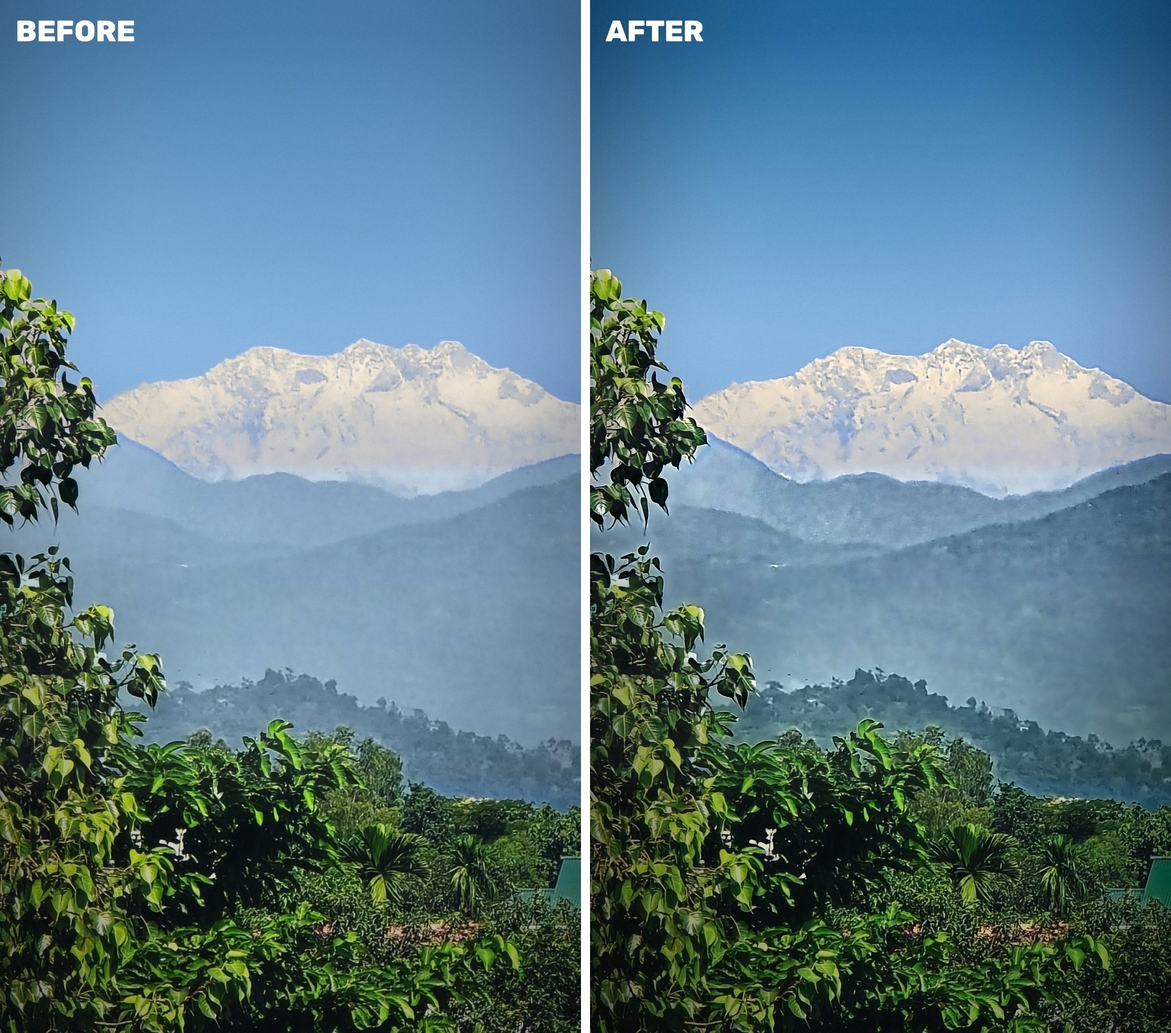
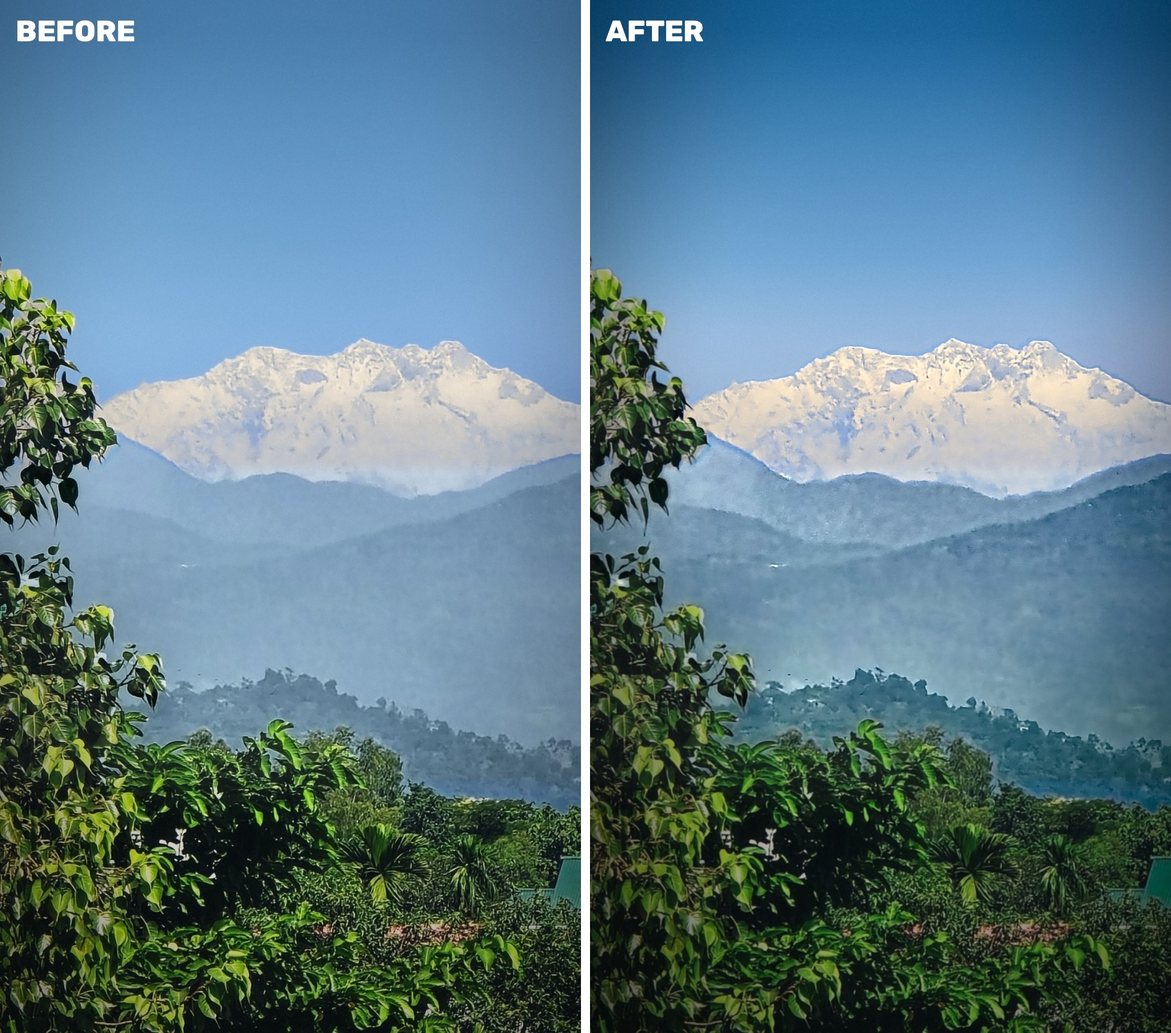
Render the Himalaya view in 4K with a cinematic grade and a widescreen frame
enhance.py now renders any crop at any scale (radii and grain scaled to
match) and writes two 4K frames: the whole photo at 2160x3840, and a
3840x2160 frame of the peak and its ranges, letterboxed to 2.39:1,
rendered from the photo at about 3.6x rather than cut from the portrait.

The grade goes further towards a film still: golden light and halation
on the snow, a warm horizon glow, blue-green shadows in the hills, a
lifted black and a stronger vignette. The foreground leaves are put out
of focus with a lens disc applied to the leaves alone; their mask now
includes the drip tips and the bright sharpening rims, so no outline is
left sharp. himalaya-cinematic.jpg is replaced by himalaya-4k.jpg.

Claude-Session: https://claude.ai/code/session_01L3hZmj9oe8Yfp8ZvHXW3mm

diff --git a/media/himalaya-view/enhance.py b/media/himalaya-view/enhance.py
@@ -1,6 +1,10 @@
 """The Himalaya over the foothills: clear the haze from the middle hills,
-bring out their forests and ridges, and give the whole view a natural,
-cinematic finish, at twice the size (2160 x 3840).
+bring out their forests and ridges, and give the whole view a cinematic
+finish, in 4K:
+
+  himalaya-4k.jpg              2160 x 3840, the whole photo (4K UHD, portrait)
+  himalaya-4k-cinemascope.jpg  3840 x 2160, the peak and its ranges framed
+                               2.39:1 inside a 16:9 4K frame
 
   1. Regions. The sky is the smooth blue connected to the top edge; the
      foreground foliage is the saturated green; the snow is the bright,
@@ -16,11 +20,17 @@ cinematic finish, at twice the size (2160 x 3840).
      blended in, from ../sunset/upscale.py) enlarges 4x in tiles and cleans
      the JPEG noise the dehaze has lifted. It is then brought to 2x, and the
      hills' forest texture and ridgelines are sharpened at two scales.
-  4. Grade. The snow gets local contrast and a touch of warm morning light
-     in its highlights, with cool shadows. The sky deepens towards the top
-     like a polariser. The near ridge turns a little greener than the far
-     hills. The foreground leaves are calmed and slightly darkened to frame
-     the view. Then a gentle filmic curve, a soft vignette and a fine grain.
+  4. Grade, for the look of a film still: golden morning light on the snow
+     with a soft halation round its brightest edges, cool shadows; a sky
+     deepening towards the top like a polariser, with a faint warm glow
+     along the horizon; blue-green shadows in the hills, the near ridge a
+     little greener; the foreground leaves darkened to frame the view; a
+     filmic curve with a slightly lifted black, a vignette and a fine grain.
+     The foreground leaves are softly out of focus, as with a lens focused
+     on the mountain: gently in the portrait, more in the widescreen frame,
+     where they are big and close. The widescreen frame is rendered from
+     the photo itself at its own scale (about 3.6x), not cut from the
+     portrait.
 
     pip install numpy opencv-python-headless onnx onnxruntime
     python3 media/himalaya-view/enhance.py
@@ -38,8 +48,12 @@ sys.path.insert(0, str(HERE.parent / "sunset"))
 import upscale as sr  # noqa: E402
 
 SOURCE = HERE / "himalaya-before.jpg"
-OUTPUT = HERE / "himalaya-cinematic.jpg"
+OUTPUT = HERE / "himalaya-4k.jpg"
+WIDE = HERE / "himalaya-4k-cinemascope.jpg"
 COMPARE = HERE / "himalaya-before-after.jpg"
+WIDE_CROP = (0, 522, 1080, 1130)    # x0, y0, x1, y1 in the photo: 16:9, the peak and its ranges
+SCOPE = 2.39                        # the widescreen frame's picture ratio, inside 16:9
+FOCUS_BLUR = (3.0, 12.0)             # defocus of the foreground leaves: portrait, widescreen
 KEEP_HAZE = 0.5          # haze kept = t ** KEEP_HAZE; 1 keeps all of it, 0 removes it
 NEAR_PEAK = (850, 1010, 1085)   # rows (in the photo) of the two ranges under the snow: full, then fading out
 NEAR_PEAK_KEEP = 0.32    # how much less haze those two ranges keep
@@ -91,6 +105,13 @@ def regions(img):
     sky = cv2.morphologyEx(sky, cv2.MORPH_CLOSE, np.ones((15, 15), np.uint8))
     fol = cv2.morphologyEx((((A < -8) & (B > 4)) | (L < 70)).astype(np.uint8), cv2.MORPH_CLOSE,
                            np.ones((7, 7), np.uint8))
+    # The leaves' thin drip tips and the bright rims the phone's sharpening
+    # drew round them: small, high-contrast details right beside the
+    # foliage, against a background (sky, haze) that is smooth there.
+    near = cv2.dilate(fol, np.ones((25, 25), np.uint8)) > 0
+    detail = np.abs(L - cv2.medianBlur(np.clip(L, 0, 255).astype(np.uint8), 21).astype(np.float32)) > 7
+    fol = (fol | (near & detail)).astype(np.uint8)
+    fol = cv2.morphologyEx(fol, cv2.MORPH_CLOSE, np.ones((3, 3), np.uint8))
     # Snow: bright and near-neutral, in the upper part of the frame, not sky.
     h = img.shape[0]
     rows = np.arange(h, dtype=np.float32)[:, None]
@@ -148,26 +169,26 @@ def dehaze(img, sky, snow, dist, fol, band):
 
 # --------------------------------------------------------------- detail ----
 
-def enlarge(f, weight):
-    """Real-ESRGAN general 4x in tiles, then down to 2x, blended per region
+def enlarge(f, weight, size):
+    """Real-ESRGAN general 4x in tiles, then to `size`, blended per region
     with a plain Lanczos enlargement: full on the hills, which need it,
     little on leaves the phone had already sharpened, none on the sky."""
     sess = ort.InferenceSession(sr.build(sr.weights()).SerializeToString(), providers=["CPUExecutionProvider"])
     img8 = (np.clip(f, 0, 1) * 255 + 0.5).astype(np.uint8)
     big = sr.upscale_tiled(sess, img8).astype(np.float32) / 255
-    h, w = f.shape[:2]
-    gan = cv2.resize(big, (w * 2, h * 2), interpolation=cv2.INTER_AREA)
-    plain = cv2.resize(f.astype(np.float32), (w * 2, h * 2), interpolation=cv2.INTER_LANCZOS4)
-    wt = cv2.resize(weight.astype(np.float32), (w * 2, h * 2), interpolation=cv2.INTER_LINEAR)[..., None]
+    gan = cv2.resize(big, size, interpolation=cv2.INTER_AREA)
+    plain = cv2.resize(f.astype(np.float32), size, interpolation=cv2.INTER_LANCZOS4)
+    wt = cv2.resize(weight.astype(np.float32), size, interpolation=cv2.INTER_LINEAR)[..., None]
     return gan * wt + plain * (1 - wt)
 
 
-def sharpen(f, amount_fine, amount_mid, amount_broad=0.0):
-    """Unsharp on lightness at three scales, amounts given per pixel."""
+def sharpen(f, amount_fine, amount_mid, amount_broad=0.0, k=1.0):
+    """Unsharp on lightness at three scales, amounts given per pixel; k
+    scales the radii with the output's enlargement (1 at 2x)."""
     L, A, B = to_lab(f)
-    fine = L - cv2.GaussianBlur(L, (0, 0), 1.4)
-    mid = L - cv2.GaussianBlur(L, (0, 0), 6.0)
-    broad = L - cv2.GaussianBlur(L, (0, 0), 22.0)
+    fine = L - cv2.GaussianBlur(L, (0, 0), 1.4 * k)
+    mid = L - cv2.GaussianBlur(L, (0, 0), 6.0 * k)
+    broad = L - cv2.GaussianBlur(L, (0, 0), 22.0 * k)
     fine = np.clip(fine, -6, 6)                        # no halos on the strongest edges
     mid = np.clip(mid, -8, 8)
     broad = np.clip(broad, -10, 10)
@@ -177,46 +198,108 @@ def sharpen(f, amount_fine, amount_mid, amount_broad=0.0):
 
 # ----------------------------------------------------------------- grade ----
 
-def grade(f, sky, fol, snow, dist):
+def grade(f, m, k=1.0):
+    """The cinematic grade. `m` holds the masks at the output's size,
+    including `rows`, each pixel's height in the whole photo (0 top, 1 bottom)."""
+    sky, fol, snow, dist, rows = m["sky"], m["fol"], m["snow"], m["dist"], m["rows"]
     h, w = f.shape[:2]
     L, A, B = to_lab(f)
-    rows = np.linspace(0, 1, h, dtype=np.float32)[:, None]
-    # Snow: local contrast in the rock and ridges, warm highlights, cool shadows.
-    loc = L - cv2.GaussianBlur(L, (0, 0), 18)
+    # Snow: local contrast in the rock and ridges, golden highlights, cool shadows.
+    loc = L - cv2.GaussianBlur(L, (0, 0), 18 * k)
     L = L + 0.55 * loc * snow
-    hi = smooth(L, 75, 95) * snow
-    B = B + 4.0 * hi
-    A = A + 1.0 * hi
+    hi = smooth(L, 72, 95) * snow
+    B = B + 8.0 * hi
+    A = A + 2.2 * hi
     lo = (1 - smooth(L, 60, 85)) * snow
-    B = B - 4.0 * lo
+    B = B - 5.0 * lo
     roll = 92 + 8 * np.tanh((L - 92) / 8)              # roll the brightest snow off instead of clipping it
     L = np.where(L > 92, roll, L) * snow + L * (1 - snow)
-    # Sky: deeper and richer towards the top, like a polariser.
+    # Sky: deeper and richer towards the top, like a polariser; a faint warm
+    # glow along the horizon behind the peak.
     deep = sky * (1 - smooth(rows, 0.0, 0.33))
-    L = L - 7 * deep
-    B = B - 4 * deep
-    # Distance: the nearer, lower hills a little greener and richer, the far
-    # ones stay blue.
+    L = L - 9 * deep
+    B = B - 5 * deep
+    glow = sky * smooth(rows, 0.24, 0.36)
+    B = B + 6 * glow
+    A = A + 1.5 * glow
+    L = L + 2 * glow
+    # Distance: blue-green shadows; the nearer, lower hills a little greener
+    # and richer, the far ones stay blue.
+    shadow = (1 - smooth(L, 30, 62)) * dist
+    A = A - 2.5 * shadow
+    B = B - 3.0 * shadow
     near = dist * smooth(rows, 0.58, 0.74)
     A = A - 3.5 * near
     B = B + 5.0 * near
     A, B = A * (1 + 0.12 * dist), B * (1 + 0.12 * dist)
-    # Foreground leaves: calmer yellow-greens, a touch darker to frame the view.
-    B = B - 0.12 * np.maximum(B, 0) * fol
-    L = L * (1 - 0.07 * fol)
+    # Foreground leaves: calmer yellow-greens, darker, so they frame the view.
+    B = B - 0.18 * np.maximum(B, 0) * fol
+    L = L * (1 - 0.16 * fol)
     out = from_lab(np.clip(L, 0, 100), A, B)
-    # Filmic curve.
+    # Halation: the brightest snow bleeds a little warm light into the air.
+    Lh = np.clip((L - 86) / 14, 0, 1) * snow
+    halo = cv2.GaussianBlur(Lh, (0, 0), 14 * k) * 0.6 + cv2.GaussianBlur(Lh, (0, 0), 40 * k) * 0.4
+    out = out + halo[..., None] * np.array([0.55, 0.78, 1.0], np.float32) * 0.10
+    # Filmic curve, with a slightly lifted black.
     x = np.clip(out, 0, 1)
-    x = x + 0.06 * x * (1 - x) * (2 * x - 1)
+    x = x + 0.11 * x * (1 - x) * (2 * x - 1)
+    x = 0.012 + 0.988 * x
     # Vignette.
     yy, xx = np.mgrid[0:h, 0:w].astype(np.float32)
     r = np.hypot((xx / w - 0.5) / 0.75, (yy / h - 0.48) / 0.85)
-    x = x * (1 - 0.16 * smooth(r, 0.45, 1.05))[..., None]
+    x = x * (1 - 0.24 * smooth(r, 0.40, 1.05))[..., None]
     # Fine grain, more in the shadows, as film has.
     rng = np.random.default_rng(7)
-    grain = cv2.GaussianBlur(rng.normal(0, 1, (h, w)).astype(np.float32), (0, 0), 0.6) * 0.010
+    grain = cv2.GaussianBlur(rng.normal(0, 1, (h, w)).astype(np.float32), (0, 0), 0.6 * k) * 0.011
     x = x + grain[..., None] * (1.2 - x.mean(2, keepdims=True))
     return np.clip(x, 0, 1)
+
+
+def defocus(f, mask, radius):
+    """Foreground leaves out of focus, as with a lens focused on the
+    mountain: a disc blur of the leaves alone (so the background does not
+    bleed into them), whose soft edge spreads a little past the leaves."""
+    if radius < 0.5:
+        return f
+    r = int(np.ceil(radius))
+    disc = np.zeros((2 * r + 1, 2 * r + 1), np.float32)
+    cv2.circle(disc, (r, r), r, 1.0, -1, cv2.LINE_AA)
+    disc = cv2.GaussianBlur(disc, (0, 0), 0.6)
+    disc /= disc.sum()
+    # Widen the leaves a little first, over the bright rim the phone's
+    # sharpening drew round them.
+    grow = max(1, int(round(radius * 0.4)))
+    m = cv2.dilate(mask.astype(np.float32), cv2.getStructuringElement(cv2.MORPH_ELLIPSE, (2 * grow + 1, 2 * grow + 1)))
+    leaf = cv2.filter2D(f * m[..., None], -1, disc) / (cv2.filter2D(m, -1, disc)[..., None] + 1e-4)
+    cover = np.clip(cv2.filter2D(m, -1, disc) * 1.8, 0, 1)[..., None]
+    return f * (1 - cover) + leaf * cover
+
+
+def render(clear, masks, crop, size, blur=0.0):
+    """Enlarge, sharpen and grade `crop` (x0, y0, x1, y1 in the photo) of the
+    dehazed photo to `size` (w, h); `blur` is the leaves' defocus radius, in
+    pixels at twice the photo's size."""
+    x0, y0, x1, y1 = crop
+    k = size[0] / (x1 - x0) / 2                       # 1 at twice the photo's size
+    cut = {n: v[y0:y1, x0:x1] for n, v in masks.items()}
+    big = enlarge(clear[y0:y1, x0:x1], 0.85 * cut["dist"] + 0.6 * cut["snow"] + 0.2 * cut["fol"], size)
+    m = {n: cv2.resize(v.astype(np.float32), size, interpolation=cv2.INTER_LINEAR) for n, v in cut.items()}
+    big = sharpen(big, amount_fine=(0.7 + 0.45 * m["band"]) * m["dist"] + 0.45 * m["snow"],
+                  amount_mid=(0.25 + 0.9 * m["band"]) * m["dist"] + 0.15 * m["snow"],
+                  amount_broad=0.6 * m["band"] * m["dist"], k=k)
+    big = defocus(big, m["fol"], blur * k)
+    return grade(big, m, k)
+
+
+def letterbox(img, ratio):
+    """Black bars top and bottom, so the picture is `ratio`:1."""
+    h, w = img.shape[:2]
+    pic = int(round(w / ratio))
+    bar = (h - pic) // 2
+    out = img.copy()
+    out[:bar] = 0
+    out[bar + pic:] = 0
+    return out
 
 
 def side_by_side(before, after, height=1600):
@@ -230,25 +313,24 @@ def side_by_side(before, after, height=1600):
     return out
 
 
-def main(debug=None):
+def main():
     img = cv2.imread(str(SOURCE))
+    h, w = img.shape[:2]
     sky, fol, snow, dist, fol_hard, band = regions(img)
     clear, t, A = dehaze(img, sky, snow, dist, fol_hard, band)
     print(f"airlight {np.round(A * 255).astype(int)}  haze t in hills {np.median(t[dist > 0.8]):.2f}")
-    if debug:
-        cv2.imwrite(str(Path(debug) / "dehazed.jpg"), (clear * 255).astype(np.uint8))
-    big = enlarge(clear, 0.85 * dist + 0.6 * snow + 0.2 * fol)
-    up = lambda m: cv2.resize(m, (big.shape[1], big.shape[0]), interpolation=cv2.INTER_LINEAR)
-    sky2, fol2, snow2, dist2, band2 = map(up, (sky, fol, snow, dist, band))
-    big = sharpen(big, amount_fine=(0.7 + 0.45 * band2) * dist2 + 0.45 * snow2,
-                  amount_mid=(0.25 + 0.9 * band2) * dist2 + 0.15 * snow2,
-                  amount_broad=0.6 * band2 * dist2)
-    out = grade(big, sky2, fol2, snow2, dist2)
-    out8 = (out * 255 + 0.5).astype(np.uint8)
-    cv2.imwrite(str(OUTPUT), out8, [cv2.IMWRITE_JPEG_QUALITY, 94])
-    cv2.imwrite(str(COMPARE), side_by_side(img, out8), [cv2.IMWRITE_JPEG_QUALITY, 90])
-    print(f"wrote {OUTPUT.name} {out8.shape[1]}x{out8.shape[0]}")
+    rows = np.broadcast_to(np.linspace(0, 1, h, dtype=np.float32)[:, None], (h, w))
+    masks = dict(sky=sky, fol=fol, snow=snow, dist=dist, band=band, rows=rows)
+    full = render(clear, masks, (0, 0, w, h), (w * 2, h * 2), blur=FOCUS_BLUR[0])
+    full8 = (full * 255 + 0.5).astype(np.uint8)
+    cv2.imwrite(str(OUTPUT), full8, [cv2.IMWRITE_JPEG_QUALITY, 95])
+    print(f"wrote {OUTPUT.name} {full8.shape[1]}x{full8.shape[0]}")
+    wide = render(clear, masks, WIDE_CROP, (3840, 2160), blur=FOCUS_BLUR[1])
+    wide8 = letterbox((wide * 255 + 0.5).astype(np.uint8), SCOPE)
+    cv2.imwrite(str(WIDE), wide8, [cv2.IMWRITE_JPEG_QUALITY, 95])
+    print(f"wrote {WIDE.name} {wide8.shape[1]}x{wide8.shape[0]}")
+    cv2.imwrite(str(COMPARE), side_by_side(img, full8), [cv2.IMWRITE_JPEG_QUALITY, 90])
 
 
 if __name__ == "__main__":
-    main(sys.argv[1] if len(sys.argv) > 1 else None)
+    main()

diff --git a/media/himalaya-view/README.md b/media/himalaya-view/README.md
@@ -1,9 +1,15 @@
-# The Himalaya over the foothills: cleared and graded
+# The Himalaya over the foothills: cleared, graded, in 4K
 
-`himalaya-cinematic.jpg` (2160 × 3840) is `himalaya-before.jpg`, a phone
-photo of the snow massif over hazy foothills, with the haze cleared from the
-middle hills and a natural cinematic finish. `himalaya-before-after.jpg` puts
-the two side by side.
+`himalaya-before.jpg` is a phone photo of the snow massif over hazy foothills.
+`enhance.py` clears the haze from the hills, sharpens them and gives the view
+a cinematic grade, in two 4K frames:
+
+| File | Size | What it is |
+| --- | --- | --- |
+| `himalaya-4k.jpg` | 2160 × 3840 | The whole photo, 4K UHD portrait |
+| `himalaya-4k-cinemascope.jpg` | 3840 × 2160 | The peak and its ranges, 2.39:1 inside a 16:9 4K frame |
+
+`himalaya-before-after.jpg` compares the portrait with the photo.
 
 `enhance.py` makes it:
 
@@ -26,15 +32,29 @@ the two side by side.
    and extra local contrast at the scale of their ridges and forest patches.
    They still stay lighter than the hills in front, and nothing else in the
    picture changes.
-4. **Grade.**
-   - **Snow:** local contrast in its rock and ridges, warm highlights, cool
-     shadows, and the brightest snow rolled off rather than clipped.
-   - **Sky:** a polariser-like deepening towards the top.
-   - **Hills:** the near ridge a little greener than the far hills.
-   - **Leaves:** calmed and slightly darkened to frame the view.
-   - **Finish:** a gentle filmic curve, a soft vignette and fine grain.
+4. **Focus.** The foreground leaves are softly out of focus, as if the lens
+   were focused on the mountain: gently in the portrait, more in the
+   widescreen frame, where they are big and close. The blur is a lens disc
+   applied to the leaves alone. The mask also takes in the leaves' drip tips
+   and the bright rims the phone's sharpening drew round them, so no sharp
+   outline is left.
+5. **Grade, for the look of a film still.**
+   - **Snow:** golden morning light, a soft halation round its brightest
+     edges, cool shadows, and the brightest snow rolled off rather than
+     clipped.
+   - **Sky:** a polariser-like deepening towards the top, with a faint warm
+     glow along the horizon.
+   - **Hills:** blue-green shadows, the near ridge a little greener than the
+     far hills.
+   - **Leaves:** darkened to frame the view.
+   - **Finish:** a filmic curve with a slightly lifted black, a vignette and
+     fine grain.
+
+The widescreen frame is rendered from the photo at its own scale (about
+3.6x), not cut from the portrait. At that scale the hills hold their shapes
+and texture but not fine detail: that is as much as the photo holds.
 
 ```sh
 pip install numpy opencv-python-headless onnx onnxruntime
-python3 media/himalaya-view/enhance.py      # under a minute on CPU
+python3 media/himalaya-view/enhance.py      # about 1.5 minutes on CPU
 ```
